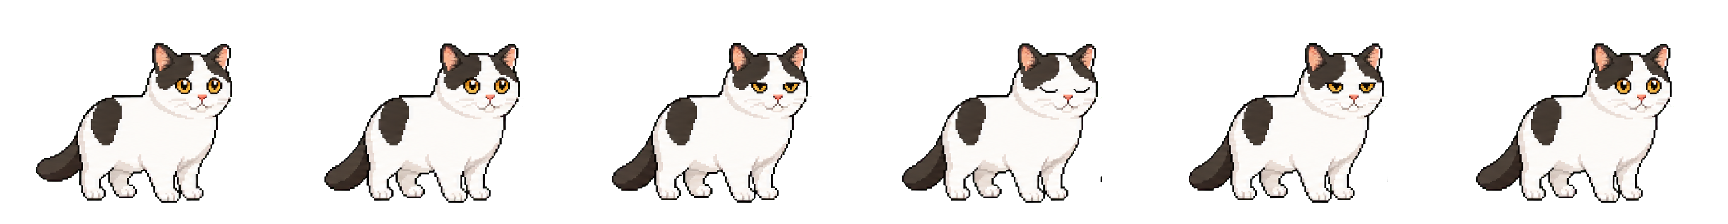
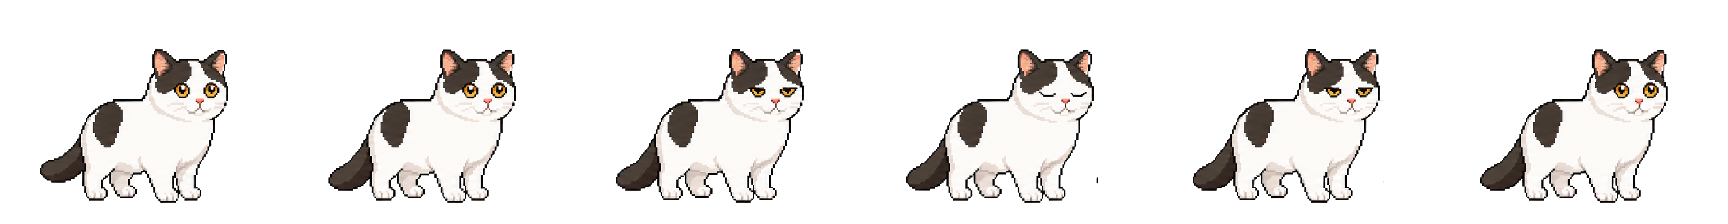
fix: normalize idle scale across transitions

diff --git a/public/pets/xiaomi/README.md b/public/pets/xiaomi/README.md
@@ -4,6 +4,7 @@
 - 单格尺寸为 288×224；运行时整格替换，不进行头、身体、四肢的局部拼接。
 - 原始画面来自已验收的 ImageGen 小米 Demo；这里只做确定性的透明边缘清理、等比缩放、锚点对齐与打包。
 - 同一动作允许按帧做克制的比例归一，但缩放锚点固定在脚底与身体中线；除扑跳外，每一格的最低有效像素都对齐逻辑地面线 `y = 50`，不会因放大而漂浮或二次落地。
+- 站立六帧统一按 96% 归一，使轮廓面积与走路、扑跳恢复、落地恢复处于同一档；换回站立时不应读成整只猫突然变大。
 - 扑跳的首尾播放姿态共用站姿格，中间两格保留帧内腾空弧线；运动层的横向位移严格绑定第 2–3 格的腾空时间窗，并与动作节奏使用同一倍率，避免落地后滑步或从偏小坐姿突然放大。
 - 条带中的格子是素材库，不等于固定播放顺序。需要咬合物理事件的动作可在 `src/render/xiaomi.ts` 声明逐格顺序与停留时长；落地在接触帧直接取压缩格，并在 450ms 内完成回弹。
 - 舔毛一次循环只抬爪一次，中间在两格低头姿态之间往返三次，再回到坐姿；这比把整套六格快速循环三遍更像连续梳理毛发。
